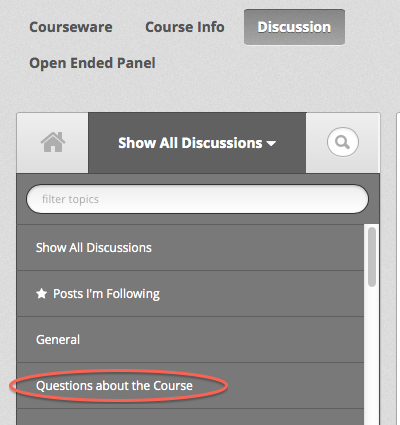
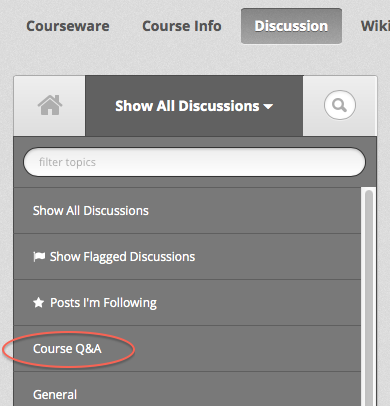
DOC-279, correct add discussion category steps
also removed "static" for pages

diff --git a/docs/en_us/course_authors/source/running_course/discussions.rst b/docs/en_us/course_authors/source/running_course/discussions.rst
@@ -35,7 +35,8 @@ This type of discussion is subject to the release date of the section that conta
 =====================================
 Create discussion categories
 =====================================
-All courses have a static page named **Discussion**. When you create a course, a discussion category named General is available for you to include by default. You can add more discussion categories to guide how students share and find information during your course. Categories might include Feedback, Troubleshooting, or Technical Help. Discussions in these categories can begin as soon as your course is available.
+
+All courses include a page named **Discussion**. When you create a course, a discussion category named General is available for you to include by default. You can add more discussion categories to guide how students share and find information during your course. Categories might include Feedback, Troubleshooting, or Technical Help. Discussions in these categories can begin as soon as your course is available.
 
 To create a discussion category:
 
@@ -45,52 +46,29 @@ To create a discussion category:
 
 #. Scroll down to the Policy Key labeled **discussion_topics**. By default, its Policy Value is:
 
- | {
- |    "General": {
- |        "id": "i4x-test_doc-SB101-course-2014_Jan"
- |    }
- | }
+ .. image:: ../Images/Discussion_Add_initial.png
+  :alt: Policy value of {"General": {"id": "i4x-test_doc-SB101-course-2014_Jan"}}
 
-4. Add a comma between the two closing braces.
+4. Copy the three lines provided for the General discussion category and paste them above the closing brace:
 
- | {
- |    "General": {
- |        "id": "i4x-test_doc-SB101-course-2014_Jan"
- |    },
- | }
+ .. image:: ../Images/Discussion_Add_paste.png
+  :alt: Policy value of {"General": {"id": "i4x-test_doc-SB101-course-2014_Jan"} "General": {"id": "i4x-test_doc-SB101-course-2014_Jan"}}
 
+5. Replace the second "General" with the quoted name of your new discussion category.
 
-5. Copy the three lines provided for the General discussion category and paste them above the closing brace:
+#. Change the second id value to a unique identifier. For example, append a reference to the category name.
 
-  | {
-  |   "General": {
-  |       "id": "i4x-test_doc-SB101-course-2014_Jan"
-  |   },
-  |   "General": {
-  |       "id": "i4x-test_doc-SB101-course-2014_Jan"
-  |   }
-  | }
+#. Add a comma between the two closing braces.
 
-6. Replace the second "General" with the quoted name of your new discussion category.
-
-#. Change the second id value to a unique identifier. For example, append a reference to the category name:
-
-
- | {
- |   "General": {
- |       "id": "i4x-test_doc-SB101-course-2014_Jan"
- |   },
- |    "Questions about the course": {
- |        "id": "i4x-test_doc-SB101-course-2014_Jan_faq"
- |    }
- | }
+ .. image:: ../Images/Discussion_Add_name.png
+  :alt: Policy value of {"General": {"id": "i4x-test_doc-SB101-course-2014_Jan"}, "Course Q&A": {"id": "i4x-test_doc-SB101-course-2014_Jan_faq"}}
 
 8. Click **Save Changes**.
 
-When students click the **Discussion** static page for your course, the drop-down list includes this new category.
+When students click the **Discussion** page for your course, the drop-down list includes this new category.
 
  .. image:: ../Images/NewCategory_Discussion.png
-  :alt: Image of a new discussion category
+  :alt: Image of a new category named Course Q&A in the list of discussions
 
 .. _Assigning_discussion_roles:
 
@@ -207,7 +185,7 @@ For information on setting up moderators for your course, see :ref:`Assigning_di
 Provide guidelines for students
 ========================================
 
-You can develop a set of best practices for discussion participation and make them avaialbe to students as a course handout file or as a static page. These guidelines can define your expectations and optionally introduce features of edX discussions. 
+You can develop a set of best practices for discussion participation and make them avaiable to students as a course handout file or on a defined page in your course. These guidelines can define your expectations and optionally introduce features of edX discussions. 
 
 .. For a template that you can use to develop your own guidelines, see :ref:`Discussion Forum Guidelines`.
 

diff --git a/docs/en_us/course_authors/source/change_log.rst b/docs/en_us/course_authors/source/change_log.rst
@@ -14,18 +14,21 @@ April, 2014
      - Change  
    * - 04/22/14
      - Updated the :ref:`Bulk Email` section with information about the dashboard option to opt out of course email. 
-   * - 4/16/14
-     - Updated "Transcripts in Additional Languages" in :ref:`Working with Video Components`.
+   * - 
+     - In :ref:`Discussions`, corrected the steps to "Create" Discussion
+       Categories".
    * - 04/16/14
+     - Updated "Transcripts in Additional Languages" in :ref:`Working with Video Components`.
+   * -  
      - In support of new features, added the following sections to :ref:`Multiple Choice` problems:
 
        * :ref:`Shuffle Answers in a Multiple Choice Problem`
        * :ref:`Targeted Feedback in a Multiple Choice Problem`
        * :ref:`Answer Pools in a Multiple Choice Problem`
 
-   * - 4/15/14
+   * - 04/15/14
      - Updated :ref:`Testing Your Course` to include a section on how to :ref:`View Your Live Course`.
-   * - 4/11/14
+   * - 04/11/14
      - Expanded the :ref:`Grades` section to include a topic on interpreting the Student Answer Distribution report. 
    * - 04/08/14
      - Updated the chapter :ref:`Working with HTML Components` to reflect the
@@ -63,9 +66,9 @@ March, 2014
    * - 03/27/14
      - Updated the :ref:`Adding Pages to a Course` section to reflect feature
        changes.
-   * - 3/27/14
+   * - 03/27/14
      - Updated the section on :ref:`Beta_Testing` to include the new "batch add" feature.
-   * - 3/19/14
+   * - 03/19/14
      - Updated the sections on :ref:`Beta_Testing`, :ref:`Discussions`,
        :ref:`Grades`, and :ref:`Student Data` with changes to the new Instructor Dashboard.
    * - 03/17/14
